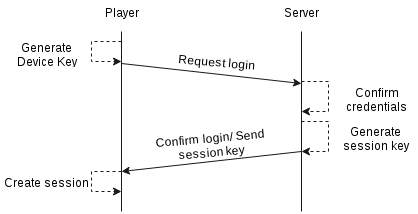
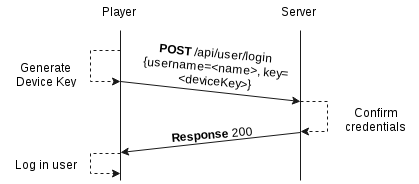
Added a few more things to the report

diff --git a/report/proj2.tex b/report/proj2.tex
@@ -14,24 +14,14 @@
 \newcommand{\HRule}{\rule{\linewidth}{0.5mm}}
 \setlength\parindent{0pt} % Removes all indentation from paragraphs	 
 %% Acronimos
-\newglossaryentry{sqlite}
-{
-  name=SQLite,
-  description={é um sistema de gestão de base de dados}
-}
-\newglossaryentry{post}
-{
-  name=POST,
-  description={é uma mensagem que fornece dados a um determinado recurso}
-}
-\newglossaryentry{get}
-{
-  name=GET,
-  description={é uma mensagem que solicita dados de um recurso especificado}
-}
-\newacronym{aes}{AES}{Advanced Encryption Standard}
-\newacronym{sha}{SHA}{Secure Hash Algorithm}
-\makeglossaries
+%\newglossaryentry{sqlite}
+%{
+%  name=SQLite,
+%  description={é um sistema de gestão de base de dados}
+%}
+%\newacronym{aes}{AES}{Advanced Encryption Standard}
+%\newacronym{sha}{SHA}{Secure Hash Algorithm}
+%\makeglossaries
 %% Fim da introdução do Acronimos
 
 \let\olditemize\itemize
@@ -120,19 +110,41 @@ For the database we used:
 
 \section{Server}
 The server is meant to interact with the database and control the access of the users and players to the files.
+This interaction is done over a \emph{Rest} interface.
 
 \subsection{Structure}
-The server is composed of 
-\subsection{API Implementation}
-\subsection{Player validation}
-\subsection{Technologies used}
+The server is composed of several files:
 
+\begin{description}
+  \item[Server file] This is the main file that holds the code to execute the server. When we want to start the server, it must be with \emph{sudo} because of the SSL integration.
+  \item[Custom adapter file] This is the file that overrides the SSL class so that the client is verified using its certificates.
+  \item[Cipher file] This file holds auxiliary cryptographic functions that are used by the server.
+  \item[Checker file] Holds auxiliary functions that make certain verifications before each request to the \emph{HTTP Rest API}, such as making sure the user is logged in before the player tries to download a file.
+\end{description}
+
+\subsection{Implementation}
+The server communicates with the player through \emph{SSL}. We did it like this so that we could focus on other parts of the system instead of implementing it from scratch.
+For this, we needed to create certificates for both server and players.
+
+\subsection{Technologies used}
+\begin{description}
+  \item[CherryPy] Object oriented web application framework for Python. We chose this because it is built for rapid development of web applications and offers the basic configurations, that is what were looking for.
+  \item[psycopg2 package] This is a Python-PostgreSQL database adapter that manages context, diagnosis erros and more.
+  \item[OpenSSL] Toolkit that implements SSL and TLS protocols with cryptographic support. We used this so that we could create a certain level of abstraction on how the communications were made, and like that, we could focus in the rest of the system.
+\end{description}
 
 \section{Web page}
 The web page is where the user can buy the titles.
-\subsection{Structure}
-\subsection{Implementation}
-\subsection{Technologies used}
+It requires the user to log in before proceeding with the titles purchase.
+The same API that the player uses is used here.
+
+\begin{figure}[H]
+\centerline{\includegraphics[width=500pt]{images/webpage.png}}
+\caption{Web page interface}
+\label{webpage}
+\end{figure}
+
+It is a simple interface that has a button to buy a specific title.
 
 \section{Player}
 The player allows the user to play the files he/she has bought previously. 
@@ -145,6 +157,9 @@ The player implementation we have is made of 3 main files.
   \item[Player file] This file contains the mainloop for the player's graphical interface. It is here where most of the requests to the server and main operations are made.
   \item[Playback file] The playback file contains the code that actually plays the file. The decryption is done here, block by block and fed to the thread that runs a VLC player instance..
   \item[My List file] This file is an auxiliary file that defines the structure of the list that the player displays to the user containing the titles the users owns. This is only to improve the appeareance of the list.
+  \item[videos folder] This folder is where the player stores the encrypted videos. Inside, there is another folder for each user that uses the player named after his/her username. This method was chosen so that it is easy for each player to go and grab the files that belong to him/her if he/she chooses to move the files and use another player or device.
+  \item[Python requests package] This package enabled us to build the requests and responses to perform the communication.
+  \item[PyCrypto package] This is the package that helps handle encryptions and decryptions.
 \end{description}
 
 \subsection{Implementation}
@@ -181,7 +196,9 @@ All the requests done to the server are performed over the server's \emph{HTTP R
 \subsection{Technologies used}
 \begin{description}
   \item[Tkinter] We built the graphical interface with Tkinter that is the Python graphic user interface framework.
-\item[VLC Player] To make things a bit easier when handling video files, we used the VLC player that takes care of the video format encoding.
+  \item[VLC Player] To make things a bit easier when handling video files, we used the VLC player that takes care of the video format encoding.
+  \item[Python requests package] This package enabled us to communicate with the server producing requests and receiving responses.
+  \item[PyCrypto package] This is the package that helps handle encryptions and decryptions.
 \end{description}
 
 \chapter{System keys}
@@ -247,14 +264,13 @@ This chain allows the player to derive the File Key, even if the device changes,
 \end{enumerate}
 
 \chapter{Server-Client interactions}
-\section{Registering on the web page}
-\section{Buying the file on the web page}
-\section{Logging in on the player}
+\section{Checking player integrity}
+\section{Logging in}
 To be able to perform any action, the user must first login. This is mandatory in both web page and player.
 \newline For this, the server offers a login operation through the \emph{Rest API}
 
 \begin{figure}[H]
-\centerline{\includegraphics[width=300pt]{images/playerLogin.png}}
+\centerline{\includegraphics[width=200pt]{images/loginDiagram.png}}
 \caption{Login interaction (player - server)}
 \label{player}
 \end{figure}
@@ -262,42 +278,82 @@ To be able to perform any action, the user must first login. This is mandatory i
 As we can see from the diagram above:
 \begin{enumerate}
   \item The player starts by generating the Device Key for the device.
-  \item The player requests the login from the server, sending it the Device Key and the username that the user inserted. 
+  \item The player requests the login from the server, sending it the generated Device Key and the username that the user inserted. 
   \item The server then accesses the database to verify the username it received and associate the Device Key to the user.
-  \item The server now generates the session key.
-  \item The server sends the session key it generated to the player, also signalling that the operation was completed successfully.
+  \item The server sends the response that signals the opetaion was completed successfully.
 \end{enumerate}
 
+The communication between player and server is done using sessions. Before the player starts communicating with the server, a session is created with the \emph{requests} package for Python.
+From now on, all communications will be performed over this session.
+
+\section{Purchasing the file on the web page}
+This operation requires the user to be logged in already and is only available in the web page.
+
+\begin{figure}[H]
+\centerline{\includegraphics[width=200pt]{images/buyTitle.png}}
+\caption{Purchase interaction (player - server)}
+\label{player}
+\end{figure}
+
+As we can see, the operation isn't complex and the only thing done here is the association of the purchased file with the user.
+This association translates in a new entry in the UserFile table in the database.
+
 \section{Downloading the file from the player}
+In this interaction, we have two distinct situations:
+\begin{enumerate}
+  \item Full file download
+  \item Cryptographic information download
+\end{enumerate}
 
+\subsection{Full file download}
+The full file download situation means that this is the first time the player downs the file the user selected.
+And so, the server must send back the full encrypted file along with the cryptographic information that will allow the player to decrypt said file.
 
-\section{Playing the file on the player}
+\begin{figure}[H]
+\centerline{\includegraphics[width=200pt]{images/fullFileDown.png}}
+\caption{Full file download (player - server)}
+\label{player}
+\end{figure}
+
+(*) In this operation, there can be yet another two situations:
+
+\begin{enumerate}
+  \item The server has no File Key stored in the database, which forces the server to generate a random start seed to derive the File Key from. It then sends the seed with the encrypted file.
+  \item The server already has a File Key stored, and it must derive the starting cryptographic information to send to the player, along with the file.
+\end{enumerate}
+
+\subsection{Cryptographic information download}
+This situation only occurs if the player has already downloaded the file and has it stored on the disk.
+
+\begin{figure}[H]
+\centerline{\includegraphics[width=200pt]{images/seedOnlyDown.png}}
+\caption{Seed only download (player - server)}
+\label{player}
+\end{figure}
+
 \section{Logging out from the player}
+Logging out is a simple operation that only implies ending the session in the server.
+
+\begin{figure}[H]
+\centerline{\includegraphics[width=200pt]{images/seedOnlyDown.png}}
+\caption{Seed only download (player - server)}
+\label{player}
+\end{figure}
+
 
 \chapter{Conclusions}
 \section{Encountered problems}
 \section{Future work}
 
-\begin{lstlisting}[frame=single,
-               framesep=3mm,
-               xleftmargin=21pt,
-               tabsize=4]
-{     
-    "author": "Diogo Silva",
-    "message" : "Mensagem de teste!",
-    "latitude" : 48.654848,
-    "longitude" : -8.6454
-}
-\end{lstlisting}
-\printglossaries
-\addcontentsline{toc}{chapter}{Glossário}
+%\printglossaries
+%\addcontentsline{toc}{chapter}{Glossário}
 
-\bibliographystyle{plain}
-\bibliography{proj2}
-\addcontentsline{toc}{chapter}{Bibliografia}
+%\bibliographystyle{plain}
+%\bibliography{proj2}
+%\addcontentsline{toc}{chapter}{Bibliografia}
 
-\listoffigures
-\addcontentsline{toc}{chapter}{Lista de figuras}
+%\listoffigures
+%\addcontentsline{toc}{chapter}{Lista de figuras}
 %\listoftables
 %\addcontentsline{toc}{chapter}{Lista de tabelas}
 
